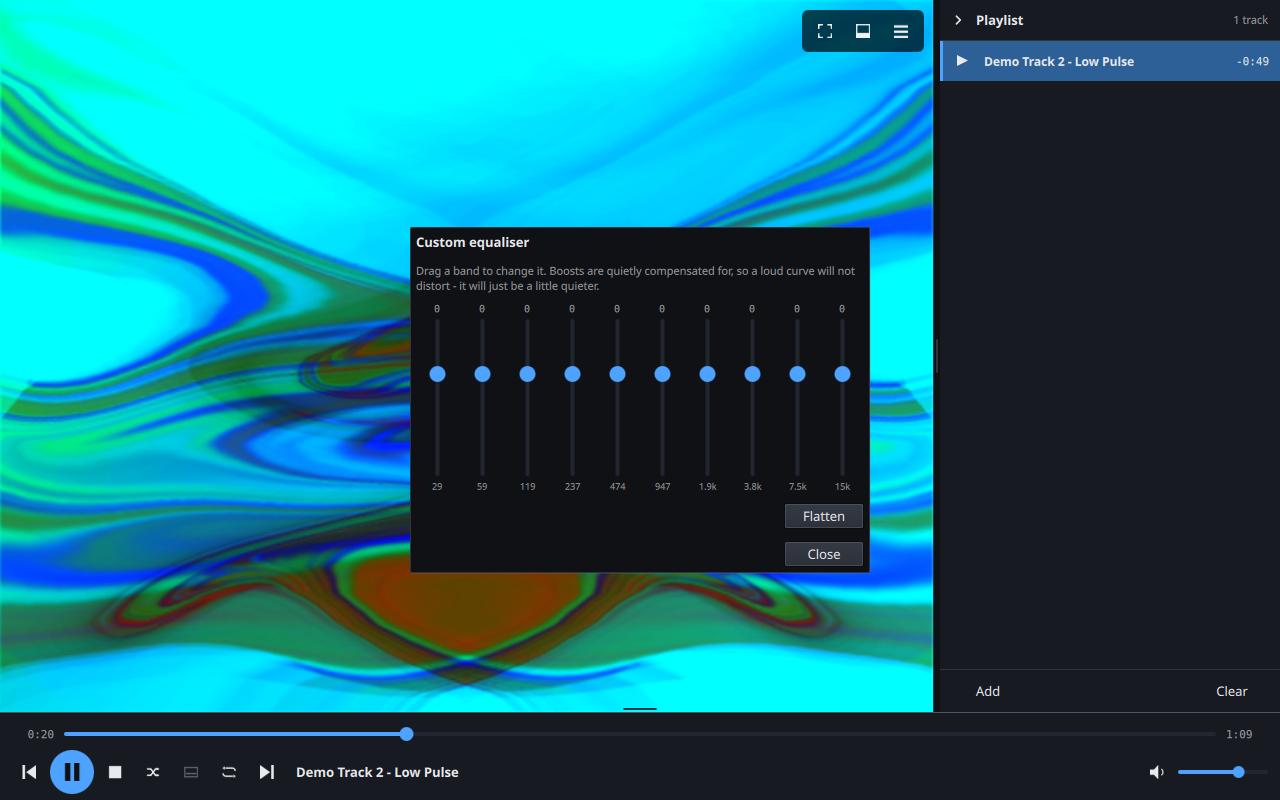
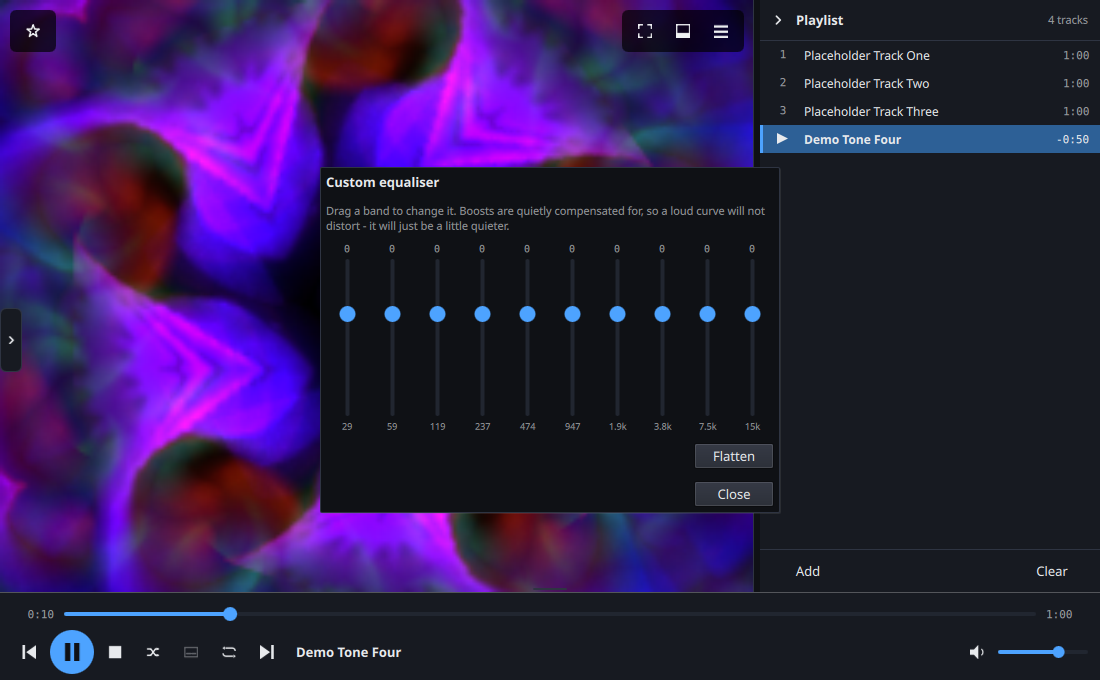
Harden playlist loading, and drop the curated presets that render nothing
Two guards on playlist loading, both from the security review's own list of accepted residues.

Stream entries are now an allow-list of http and https. The check already required a scheme and
a host, which correctly rejects file:///etc/passwd, but it admitted smb://, rtsp://, ftp:// and
anything else GStreamer can autoplug, and playing one contacts that host. One rule for typed
URLs and for playlist entries alike, because two paths drift and the one that drifts is always
the one nobody is watching. And an m3u is now bounded at 8 MB, 4096 characters per line and
20,000 entries, none of which a real playlist reaches; without the line bound, reading a file
with no newlines in it allocates the whole file.

Verified against fixtures built to break each one: four hostile schemes refused while the https
stream and the real file were kept, a twenty-megabyte single line refused with peak memory under
twelve, and fifty thousand entries stopped at twenty thousand.

Separately, the curated set is audited for presets that render nothing. Every curated preset
naming an external texture was rendered with audio playing and its non-black fraction recorded,
then each blank one rendered again with a stand-in texture supplied, which is the only test that
distinguishes "needs a texture we do not ship" from "broken for its own reasons". One preset went
from nothing to a full frame when given its texture; three were blank either way. All four are
[…]

diff --git a/src/PlaylistModel.cpp b/src/PlaylistModel.cpp
@@ -270,6 +270,20 @@ void PlaylistModel::addStream(const QString &url, const QString &name)
     if (!parsed.isValid() || parsed.scheme().isEmpty() || parsed.host().isEmpty())
         return;
 
+    // An allow-list rather than "any scheme with a host". playbin3 autoplugs a source element
+    // from the URI scheme, so without this a playlist file could name smb://, rtsp:// or
+    // anything else GStreamer happens to support and have Reverie contact it. Internet radio is
+    // http and https; nothing else has ever been the feature.
+    //
+    // One rule for typed URLs and for playlist entries alike. Two paths would drift, and the
+    // one that drifts is always the one nobody is looking at.
+    static const QStringList allowed{QStringLiteral("http"), QStringLiteral("https")};
+    if (!allowed.contains(parsed.scheme().toLower())) {
+        qWarning("playlist: refused a %s:// stream - only http and https are accepted",
+                 qPrintable(parsed.scheme().toLower()));
+        return;
+    }
+
     Track track;
     track.path = parsed.toString();
     track.isStream = true;
@@ -407,13 +421,32 @@ bool PlaylistModel::loadM3U(const QUrl &source)
     if (!file.open(QIODevice::ReadOnly | QIODevice::Text))
         return false;
 
+    // A playlist is a list of paths. None of these bounds can be reached by a real one, and
+    // without them a hostile or corrupt file is read into memory whole - readLine() on a file
+    // with no newlines will happily allocate all of it.
+    constexpr qint64 kMaxPlaylistBytes = 8 * 1024 * 1024;
+    constexpr int kMaxLineChars = 4096;
+    constexpr int kMaxEntries = 20000;
+    if (file.size() > kMaxPlaylistBytes) {
+        qWarning("playlist: %s is %lld bytes, which is not a playlist; refused",
+                 qPrintable(QFileInfo(path).fileName()), static_cast<long long>(file.size()));
+        return false;
+    }
+
     const QDir base = QFileInfo(path).dir();
     QStringList paths;
     QString pendingTitle;
+    int entries = 0;
+    bool truncated = false;
     QTextStream in(&file);
     in.setEncoding(QStringConverter::Utf8);
     while (!in.atEnd()) {
-        const QString line = in.readLine().trimmed();
+        if (entries >= kMaxEntries) {
+            truncated = true;
+            break;
+        }
+        const QString rawLine = in.readLine(kMaxLineChars);
+        const QString line = rawLine.trimmed();
         if (line.isEmpty())
             continue;
         if (line.startsWith(QLatin1Char('#'))) {
@@ -424,6 +457,7 @@ bool PlaylistModel::loadM3U(const QUrl &source)
             }
             continue;
         }
+        ++entries;
         if (line.contains(QStringLiteral("://"))) {
             addStream(line, pendingTitle);
         } else {
@@ -431,6 +465,8 @@ bool PlaylistModel::loadM3U(const QUrl &source)
         }
         pendingTitle.clear();
     }
+    if (truncated)
+        qWarning("playlist: stopped after %d entries", kMaxEntries);
     appendPaths(paths);
     return true;
 }

diff --git a/tools/curate-presets.py b/tools/curate-presets.py
@@ -51,6 +51,29 @@ print(f"  using blur passes:                     {blur} ({100*blur/n:.0f}%)   br
 # Cost is kept, demoted to the tiebreaker inside each style, so the default still leans on the
 # cheaper presets where there is a choice. It is only a proxy and is known to misclassify, so it
 # decides which of two Rorschachs ships - never whether Rorschach ships at all.
+# Presets that render essentially nothing on this machine, measured with PLAYER_PROBE over a
+# six-second run with audio playing. They are excluded before selection rather than deleted
+# afterwards, so the style they belong to still gets two working presets.
+#
+# Two separate faults, kept apart because they need different evidence:
+#
+#   * entirely dependent on an external texture - blank without it, fine with it. Reverie ships
+#     no textures by design (see the README), so these can never work in a default install.
+#   * blank whatever you do - supplying the texture they ask for changes nothing, so something
+#     else is wrong with them. They fail the "should this be in the default set" test anyway.
+#
+# Verified individually by rendering each with and without a stand-in texture. Do not add to this
+# list from reading a preset: the one that prompted the whole investigation, "Planet escher -
+# cubesBW", looks texture-dependent and is black with the texture as well as without.
+BLANK_PRESETS = {
+    # texture-dependent: 0% non-black without, 100% with
+    "Fractal/Core Tunnel/Tripgnosis - Wormhole.milk",
+    # blank regardless of textures
+    "Hypnotic/Illusion/amandio c, flexi, martin - Op illusions - curved1.milk",
+    "Hypnotic/Illusion/amandio c, flexi, martin - Op illusions - poggendo.milk",
+    "Supernova/Radiate/corsage digit.milk",
+}
+
 # Two per style: the cheapest, and the median.
 #
 # Taking the two cheapest was the first attempt and skewed the default badly - 45% with pixel
@@ -62,8 +85,14 @@ print(f"  using blur passes:                     {blur} ({100*blur/n:.0f}%)   br
 # The cheapest guarantees every style has something that runs on a software renderer; the median
 # is what that style actually looks like. 66% shaders, median cost 65.
 by_style = collections.defaultdict(list)
+excluded = 0
 for r in rows:
+    if os.path.relpath(r["path"], root) in BLANK_PRESETS:
+        excluded += 1
+        continue
     by_style[(r["category"], r["style"])].append(r)
+if excluded:
+    print(f"  excluded {excluded} preset(s) that render nothing")
 
 picked = []
 for key in sorted(by_style):

diff --git a/README.md b/README.md
@@ -11,7 +11,7 @@ try to organise your music collection.
 ![Reverie playing a track with the visualiser running](docs/screenshot.png)
 
 <p align="center">
-  <img src="docs/screenshot-presets.png" width="49%" alt="Choosing a visualisation by category">
+  <img src="docs/screenshot-presets.png" width="49%" alt="Searching the visualisation browser">
   <img src="docs/screenshot-equaliser.png" width="49%" alt="The ten-band equaliser">
 </p>
 
@@ -20,10 +20,13 @@ try to organise your music collection.
 - **Transport** — play, pause, stop, next, previous, seek, volume, shuffle, repeat that cycles
   off / playlist / one track, and a subtitles toggle
 - **Visualisations** — projectM (Milkdrop) presets, embedded or fullscreen, driven by the decoded
-  audio. Right-click the visualiser to browse and search them, or leave it to rotate. The
-  packages carry a curated 364 — two from each of the pack's 183 visual styles — and the full
-  collection of **9,795** is an optional 2.7 MB download. Right-click the visualiser and choose
-  *Browse all…* to search the library by name, kind or style.
+  audio. The packages carry a curated **364**, two from each of the pack's 183 visual styles, and
+  the full collection of **9,795** is an optional 2.7 MB download.
+- **A browser for them**, in a panel beside the stage: search by name, filter by kind or by the
+  pack's own visual style, and click to watch. Star the one you are looking at, and the
+  right-click menu keeps your favourites and the last ten you saw — which matters more than it
+  sounds, because the visualiser rotates on its own and that list is the only way back to the one
+  that just went past.
 - **Equaliser** — twelve preset curves and a ten-band custom mixer, with boosts compensated
   automatically so a loud curve cannot clip
 - **One playlist** — drag to reorder, multi-select, remove, save and load M3U. Not tabbed
@@ -112,6 +115,30 @@ cmake --install build/projectm-master
 cmake -S . -B build/player -DCMAKE_BUILD_TYPE=Release
 cmake --build build/player -j"$(nproc)"
 ```
+
+### A note on textures
+
+Some Milkdrop presets name an external image — `worms`, `fw_clouds`, `PEcubesBW` — and load it as
+a texture. **Reverie ships none of them, in the curated set or the full download, and that is
+deliberate.**
+
+Nothing breaks without them. projectM substitutes a 1×1 placeholder and the preset still renders;
+measured across every curated preset that asks for one, 68 of 78 were unaffected enough to look
+normal and exactly **one** turned out to depend on its texture completely. That one is not in the
+curated set — nor are three others that render nothing whatever you give them. What you lose is
+fidelity on part of the library, not the library.
+
+What you would gain is not worth what it costs. A texture is decoded by `stb_image`, which is not
+hardened against hostile input, and projectM's API accepts only a *search path* — there is no way
+to hand it pixels decoded by something better. More to the point, the trust model is wrong: an
+audio or video file is something you chose and opened, one at a time, whereas a texture pack
+arrives from upstream and every user gets the same bytes without ever looking at them. Swapping
+one image in a pack is trivial for whoever controls it, and reaches everybody at once. That is a
+much easier thing to attack than a file a person deliberately went and played.
+
+If you want them anyway, the path is open and always has been: put images in
+`~/.local/share/reverie/textures` and they will be found. That is your decision about your own
+machine, which is exactly where it belongs.
 
 ### Presets
 
